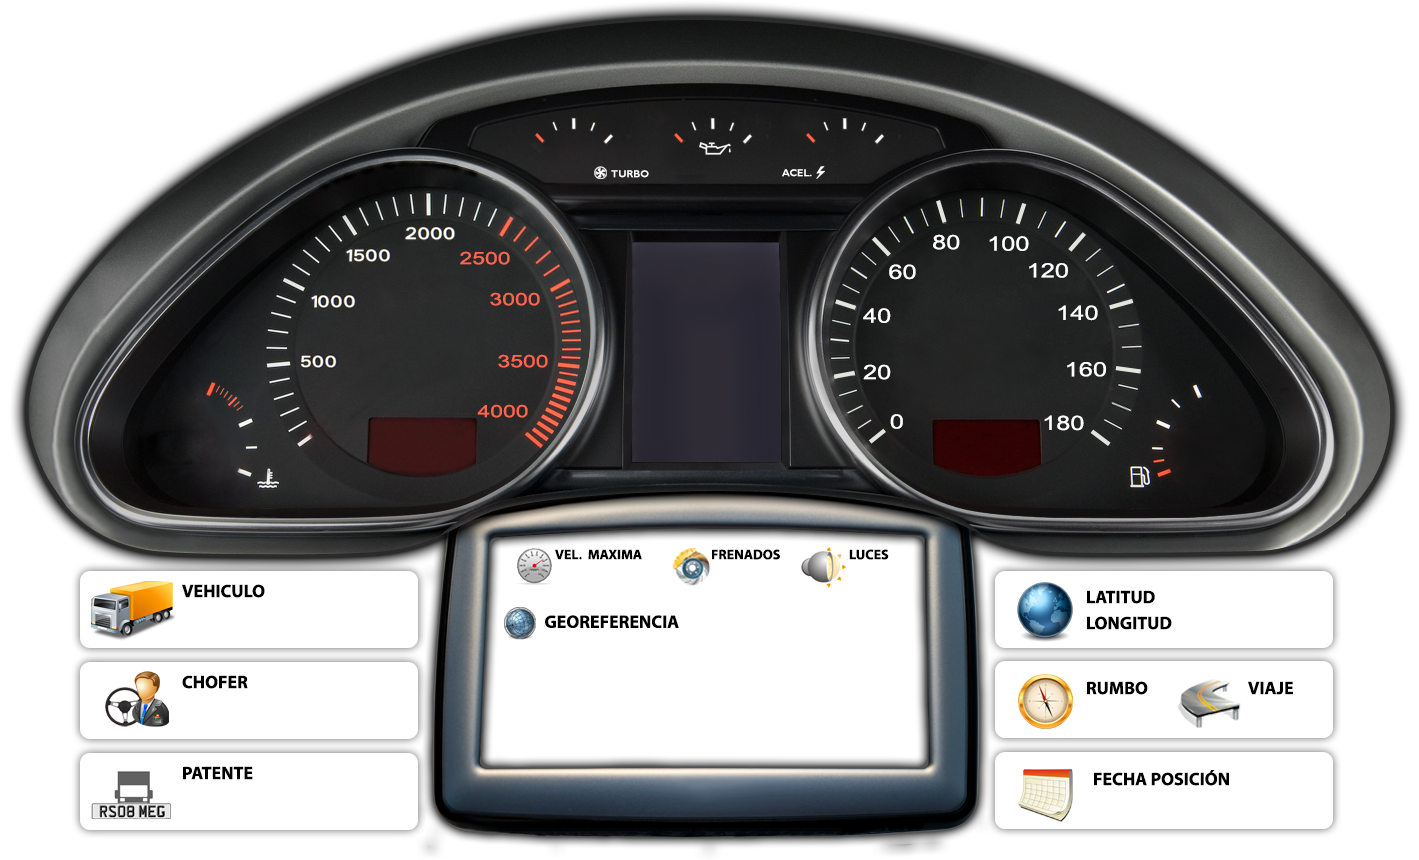
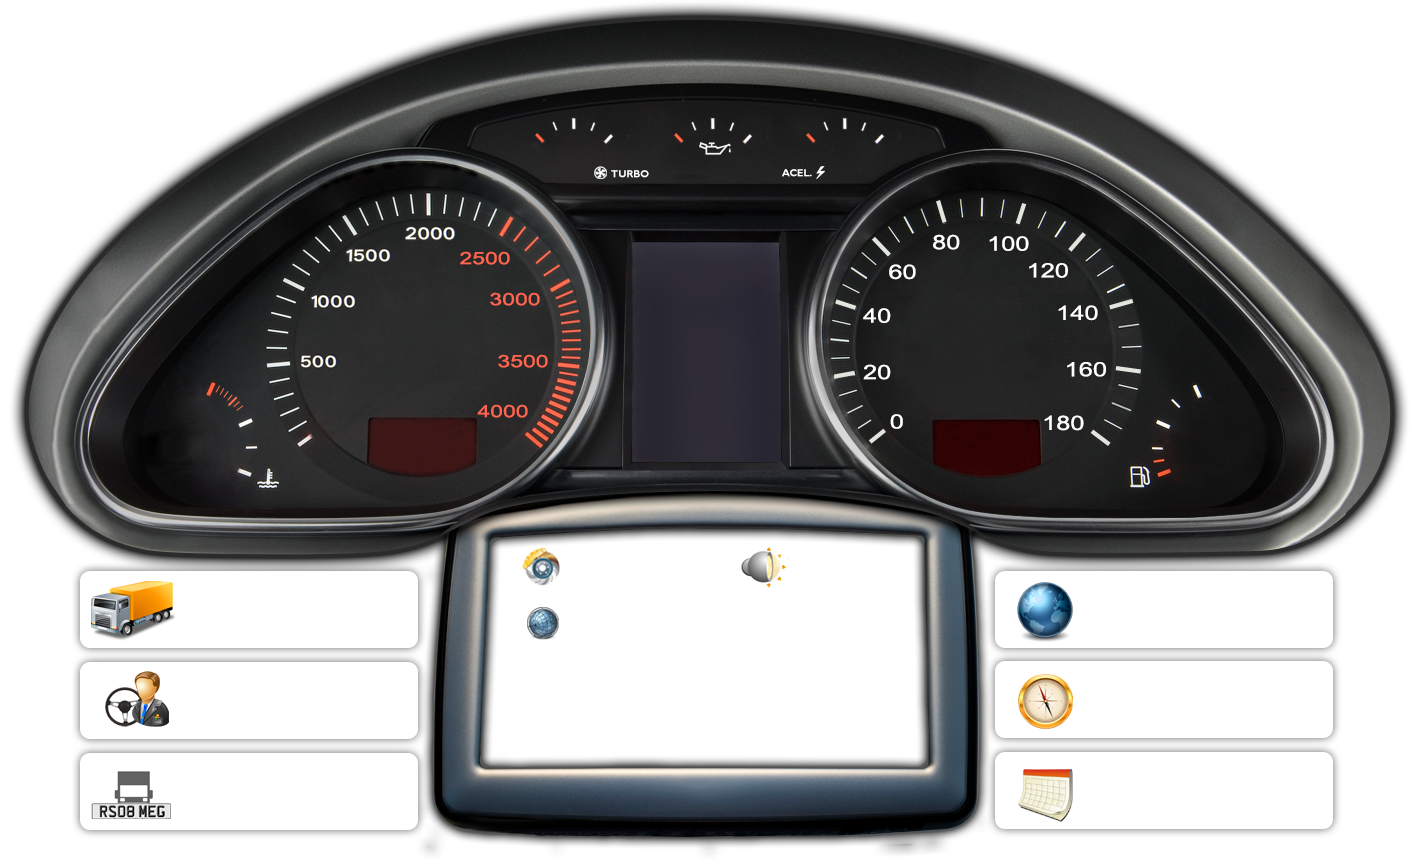
Layout data items

diff --git a/src/components/Dashboard.vue b/src/components/Dashboard.vue
@@ -106,19 +106,73 @@
       <Lcd label="KM VIAJE" color="#ffa44b" class="km-trip">
         {{$store.state.dashboard.data.kmTrip}}
       </Lcd>
+
+    <div class="item vehicle">
+      <SVGText canvasWidth="200" fontWeight="700">VEHICULO</SVGText>
+      <SVGText canvasWidth="200" fontWeight="400">{{$store.state.dashboard.data.vehicle}}</SVGText>
+    </div>
+
+    <div class="item driver">
+      <SVGText canvasWidth="200" fontWeight="700">CHOFER</SVGText>
+      <SVGText canvasWidth="200" fontWeight="400">{{$store.state.dashboard.data.driver}}</SVGText>
+    </div>
+
+    <div class="item plate">
+      <SVGText canvasWidth="200" fontWeight="700">MATRICULA</SVGText>
+      <SVGText canvasWidth="200" fontWeight="400">{{$store.state.dashboard.data.plate}}</SVGText>
+    </div>
+
+    <div class="item lat-long">
+      <SVGText canvasWidth="200" fontWeight="700">LATITUD | LONGITUD</SVGText>
+      <SVGText canvasWidth="200" fontWeight="400">
+        {{$store.state.dashboard.data.latitude}} | {{$store.state.dashboard.data.longitude}}
+      </SVGText>
+    </div>
+
+    <div class="item course">
+      <SVGText canvasWidth="200" fontWeight="700">RUMBO</SVGText>
+      <SVGText canvasWidth="200" fontWeight="400">{{$store.state.dashboard.data.course}} > VIAJE {{$store.state.dashboard.data.trip}}</SVGText>
+    </div>
+
+    <div class="item date-position">
+      <SVGText canvasWidth="200" fontWeight="700">FECHA POSICIÓN</SVGText>
+      <SVGText canvasWidth="200" fontWeight="400">{{$store.state.dashboard.data.datePosition}}</SVGText>
+    </div>
+
+    <div class="item street">
+      <SVGText canvasWidth="240" fontWeight="700">GEOREFERENCIA</SVGText>
+      <SVGText canvasWidth="240" fontWeight="400">{{$store.state.dashboard.data.street}}</SVGText>
+    </div>
+
+    <div class="item stops">
+      <SVGText canvasWidth="200" fontWeight="700">FRENADOS</SVGText>
+      <SVGText canvasWidth="200" fontWeight="400">{{$store.state.dashboard.data.stops}}</SVGText>
+    </div>
+
+    <div class="item lights">
+      <SVGText canvasWidth="200" fontWeight="700">LUCES</SVGText>
+      <SVGText canvasWidth="200" fontWeight="400">
+        {{
+          $store.state.dashboard.data.lights ? 
+            'Encendidas' : 'Apagadas'
+        }}</SVGText>
+    </div>
+
     </div>
   </div>
 </template>
 
 <script>
-import Lcd from "./Lcd";
-import Gauge from "./Gauge";
+import Lcd from "./Lcd"
+import Gauge from "./Gauge"
+import SVGText from "./SVGText"
 
 export default {
   name: "Dashboard",
   components: {
     Lcd,
-    Gauge
+    Gauge,
+    SVGText
   },
   props: {
     speed: {
@@ -269,4 +323,72 @@ $bg-heigth: 860px;
   left: 62.65%;
   width: 10%;
 }
+
+.item {
+  position: absolute;
+  display: flex;
+  flex-direction: column;
+  $left-x: 13%;
+  $right-x: 76.6%;
+  $row-1: 68.5%;
+  $row-2: 79%;
+  $row-3: 89.5%;
+
+  &.vehicle {
+    top: $row-1;
+    left: $left-x;
+    width: 15%;
+    height: 6%;
+  }
+
+  &.driver {
+    top: $row-2;
+    left: $left-x;
+    width: 15%;
+  }
+
+  &.plate {
+    top: $row-3;
+    left: $left-x;
+    width: 15%;
+  }
+
+  &.lat-long {
+    top: $row-1;
+    left: $right-x;
+    width: 15%;
+  }
+
+  &.course {
+    top: $row-2;
+    left: $right-x;
+    width: 15%;
+  }
+
+  &.date-position {
+    top: $row-3;
+    left: $right-x;
+    width: 15%;
+  }
+
+  &.stops {
+    top: 63.4%;
+    left: 40%;
+    width: 15%;
+  }
+
+  &.lights {
+    top: 63.4%;
+    left: 56%;
+    width: 15%;
+  }
+
+  &.street {
+    top: 70.5%;
+    left: 40%;
+    width: 17%;
+  }
+}
+
+
 </style>

diff --git a/src/components/SVGText.vue b/src/components/SVGText.vue
@@ -1,0 +1,52 @@
+<template>
+  <svg
+    xmlns="http://www.w3.org/2000/svg"
+    :viewBox="'0 0 ' +canvasWidth+ ' ' + size * 1.25"
+    width="100%">
+    <text
+      x="0%" y="50%"
+      dominant-baseline="central"
+      :fill="color"
+      :style="{
+        fontSize: size+'px',
+        fontFamily: fontFamily,
+        fontWeight: fontWeight
+      }">
+      <slot name="default" />
+    </text>
+  </svg>
+</template>
+
+<script>
+// import chroma from "chroma-js";
+
+export default {
+  name: "SVGText",
+  props: {
+    color: {
+      type: String,
+      default: 'black'
+    },
+    canvasWidth: {
+      type: Number,
+      default: 100
+    },
+    size: {
+      type: Number,
+      default: 16
+    },
+    fontFamily: {
+      type: String,
+      default: 'Open Sans'
+    },
+    fontWeight: {
+      type: Number,
+      default: 400
+    }
+  }
+};
+</script>
+
+<style scoped lang="scss">
+
+</style>

diff --git a/api/dashboard.js b/api/dashboard.js
@@ -38,8 +38,8 @@ module.exports.data = (event, context, callback) => {
         stops: faker.random.number({min:0, max:500}),
         driver: faker.name.findName(),
         turbo: faker.random.number({min:0, max:100}),
-        latitude: -35.0000,
-        longitude: -60.0000,
+        latitude: faker.helpers.replaceSymbols('##,######'),
+        longitude: faker.helpers.replaceSymbols('##,######'),
         street: faker.address.streetAddress("##"),
         course: faker.random.arrayElement(['N','NE','E','SE','S','SW','W','NW','N']),
         stoppedTime: timerGenerator(),

diff --git a/public/index.html b/public/index.html
@@ -5,7 +5,8 @@
     <meta http-equiv="X-UA-Compatible" content="IE=edge">
     <meta name="viewport" content="width=device-width,initial-scale=1.0">
     <link rel="icon" href="<%= BASE_URL %>favicon.ico">
-    <title><%= htmlWebpackPlugin.options.title %></title>
+    <title>Lo-Jack</title>
+    <link href="https://fonts.googleapis.com/css2?family=Open+Sans:wght@400;700&display=swap" rel="stylesheet">
   </head>
   <body>
     <noscript>
